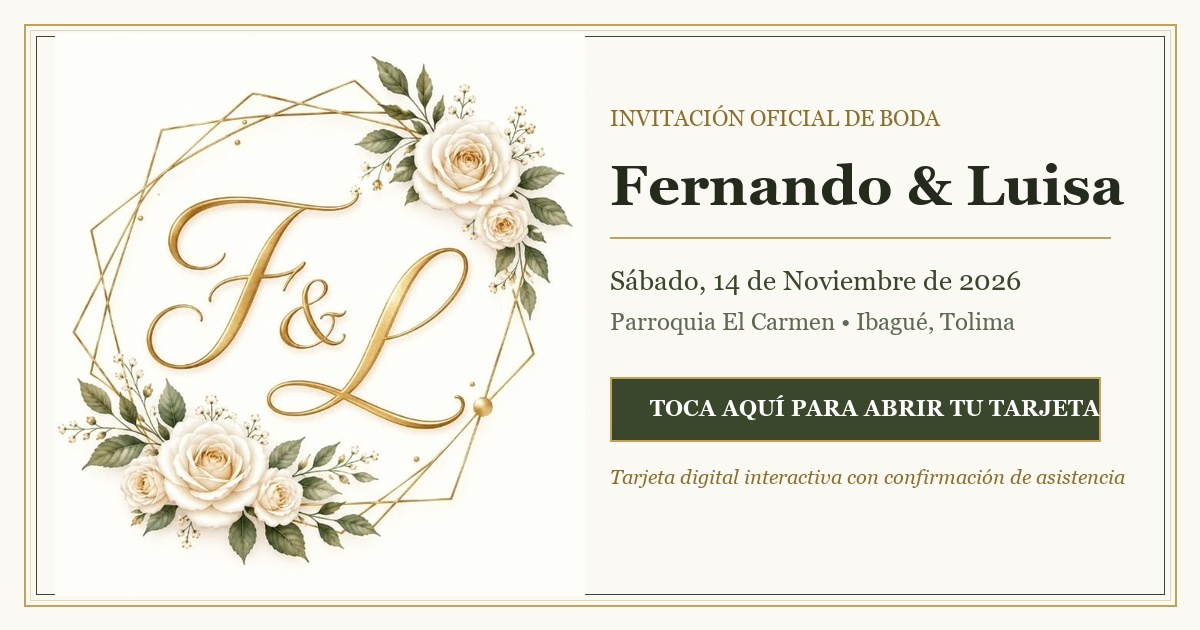
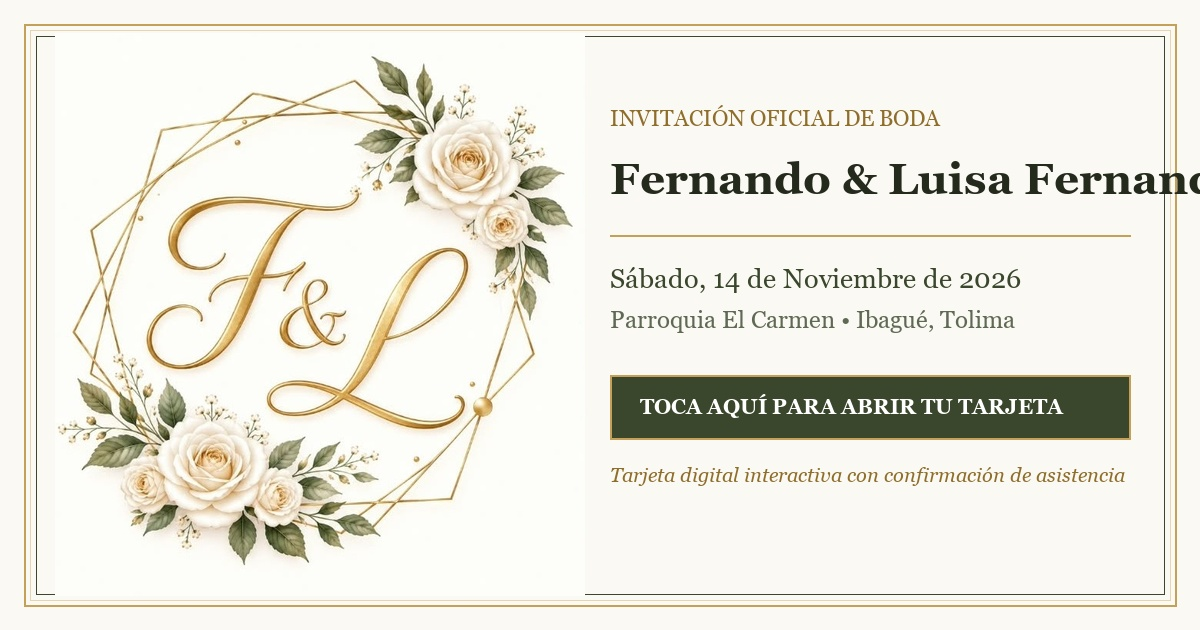
Luisa Fernanda en todo, itinerario solo con titulos grandes

diff --git a/index.html b/index.html
@@ -4,16 +4,16 @@
 <head>
   <meta charset="UTF-8">
   <meta name="viewport" content="width=device-width, initial-scale=1.0, maximum-scale=1.0, user-scalable=no">
-  <title>Boda Fernando & Luisa 🌿💍</title>
+  <title>Boda Fernando & Luisa Fernanda 🌿💍</title>
 
   <!-- SEO & OpenGraph WhatsApp / Facebook / Twitter -->
   <meta name="description"
-    content="Invitación Oficial de Boda • Fernando & Luisa. Acompáñanos a celebrar nuestro matrimonio el Sábado, 14 de Noviembre de 2026 en Ibagué, Tolima.">
+    content="Invitación Oficial de Boda • Fernando & Luisa Fernanda. Acompáñanos a celebrar nuestro matrimonio el Sábado, 14 de Noviembre de 2026 en Ibagué, Tolima.">
 
   <!-- Open Graph / Previsualización Grande en WhatsApp -->
   <meta property="og:type" content="website">
   <meta property="og:url" content="https://boda-fernando-luisa.vercel.app/">
-  <meta property="og:title" content="💌 Invitación Oficial de Boda • Fernando & Luisa 💍">
+  <meta property="og:title" content="💌 Invitación Oficial de Boda • Fernando & Luisa Fernanda 💍">
   <meta property="og:description"
     content="Estás cordialmente invitado(a) a celebrar el día más importante de nuestras vidas. Toca aquí para abrir tu tarjeta interactiva y confirmar tu pase.">
   <meta property="og:image" content="https://boda-fernando-luisa.vercel.app/assets/og_preview.jpg">
@@ -21,12 +21,12 @@
   <meta property="og:image:type" content="image/jpeg">
   <meta property="og:image:width" content="1200">
   <meta property="og:image:height" content="630">
-  <meta property="og:image:alt" content="Invitación Oficial de Boda Fernando y Luisa">
-  <meta property="og:site_name" content="Boda Fernando & Luisa">
+  <meta property="og:image:alt" content="Invitación Oficial de Boda Fernando y Luisa Fernanda">
+  <meta property="og:site_name" content="Boda Fernando & Luisa Fernanda">
 
   <!-- Twitter Card -->
   <meta name="twitter:card" content="summary_large_image">
-  <meta name="twitter:title" content="💌 Invitación Oficial de Boda • Fernando & Luisa 💍">
+  <meta name="twitter:title" content="💌 Invitación Oficial de Boda • Fernando & Luisa Fernanda 💍">
   <meta name="twitter:description"
     content="Estás cordialmente invitado(a) a celebrar el día más importante de nuestras vidas. Toca para abrir tu invitación.">
   <meta name="twitter:image" content="https://boda-fernando-luisa.vercel.app/assets/og_preview.jpg">
@@ -74,7 +74,7 @@
         <!-- Rótulo Caligráfico con el nombre del invitado -->
         <div class="envelope-label" id="envelopeLabel">
           <div class="envelope-label-intro" id="envGuestIntro">Estás Cordialmente Invitado/a</div>
-          <div class="envelope-label-name" id="envGuestName">Boda Fernando & Luisa</div>
+          <div class="envelope-label-name" id="envGuestName">Boda Fernando & Luisa Fernanda</div>
           <div class="envelope-label-passes" id="envGuestPasses">Sábado, 14 de Noviembre de 2026 • Ibagué, Tolima</div>
 
           <!-- HUELLITAS DE NUESTRO PERRIJO EN LA PORTADA 🐾 -->
@@ -118,7 +118,7 @@
           <h1 class="couple-names">
             <span id="displayGroom">Fernando</span>
             <span class="ampersand">&</span>
-            <span id="displayBride">Luisa</span>
+            <span id="displayBride">Luisa Fernanda</span>
           </h1>
           <p class="romantic-quote" id="displayQuote">
             “Me encontré con el amor de mi vida; lo agarré y no lo solté”
@@ -275,37 +275,30 @@
             <div class="timeline-item">
               <div class="timeline-dot"></div>
               <div class="timeline-title">Ceremonia Religiosa • 5:30 PM</div>
-              <div class="timeline-desc">Bendición sagrada de nuestro matrimonio en la Parroquia Nuestra Señora Del Carmen</div>
             </div>
             <div class="timeline-item">
               <div class="timeline-dot"></div>
               <div class="timeline-title">Recepción & Bienvenida • 7:00 PM</div>
-              <div class="timeline-desc">Llegada de nuestros seres queridos al Centro Vacacional Picaleña y cóctel de bienvenida</div>
             </div>
             <div class="timeline-item">
               <div class="timeline-dot"></div>
               <div class="timeline-title">Vals de los Esposos</div>
-              <div class="timeline-desc">Nuestro primer y emotivo baile como marido y mujer, acompañados de nuestros seres más queridos</div>
             </div>
             <div class="timeline-item">
               <div class="timeline-dot"></div>
               <div class="timeline-title">Sesión Fotográfica</div>
-              <div class="timeline-desc">Inmortalizando sonrisas, abrazos y recuerdos eternos junto a nuestra familia y amigos</div>
             </div>
             <div class="timeline-item">
               <div class="timeline-dot"></div>
               <div class="timeline-title">Cena de Celebración</div>
-              <div class="timeline-desc">Banquete de gala y brindis de honor para bendecir esta hermosa unión</div>
             </div>
             <div class="timeline-item">
               <div class="timeline-dot"></div>
               <div class="timeline-title">Música & Pista de Baile</div>
-              <div class="timeline-desc">¡Se abre la pista de fiesta! Alegría, baile continuo y máxima diversión para todos</div>
             </div>
             <div class="timeline-item">
               <div class="timeline-dot"></div>
               <div class="timeline-title">Corte del Pastel</div>
-              <div class="timeline-desc">El momento más dulce de la noche, compartiendo la dicha de nuestro amor</div>
             </div>
           </div>
         </section>
@@ -429,7 +422,7 @@
         <!-- 8. PIE DE TARJETA & DESPEDIDA -->
         <footer class="card-footer-farewell">
           <div class="farewell-text">¡Los esperamos con el corazón!</div>
-          <div class="farewell-subtext">Fernando & Luisa</div>
+          <div class="farewell-subtext">Fernando & Luisa Fernanda</div>
 
           <div style="margin-top: 20px; display: flex; gap: 10px; justify-content: center; flex-wrap: wrap;">
             <button class="btn-map btn-map-secondary" onclick="resetToEnvelope()" style="font-size: 0.75rem;">
@@ -481,7 +474,7 @@
       <div class="host-header">
         <div>
           <h2 class="host-title">Gestión de Invitados</h2>
-          <div class="host-subtitle">Boda Fernando & Luisa</div>
+          <div class="host-subtitle">Boda Fernando & Luisa Fernanda</div>
         </div>
         <button class="btn-close-drawer" id="btnCloseDrawer" aria-label="Cerrar panel">
           <svg width="24" height="24" viewBox="0 0 24 24" fill="none" stroke="currentColor" stroke-width="2">
@@ -535,7 +528,7 @@
             </div>
             <div class="form-group">
               <label class="form-label">Nombre de la Novia:</label>
-              <input type="text" class="form-input" id="editBrideName" value="Luisa">
+              <input type="text" class="form-input" id="editBrideName" value="Luisa Fernanda">
             </div>
             <div class="form-group">
               <label class="form-label">Monograma (Iniciales):</label>

diff --git a/novios.html b/novios.html
@@ -3,7 +3,7 @@
 <head>
   <meta charset="UTF-8">
   <meta name="viewport" content="width=device-width, initial-scale=1.0">
-  <title>Panel de Novios • Boda Fernando & Luisa 🌿</title>
+  <title>Panel de Novios • Boda Fernando & Luisa Fernanda 🌿</title>
   <link rel="icon" type="image/jpeg" href="assets/monograma_boda.jpg">
   
   <link rel="preconnect" href="https://fonts.googleapis.com">
@@ -694,7 +694,7 @@
       <div class="admin-logo-circle">F & L</div>
       <div>
         <h1>Panel Privado de Novios</h1>
-        <p>Boda Fernando & Luisa 🌿</p>
+        <p>Boda Fernando & Luisa Fernanda 🌿</p>
       </div>
     </div>
     <div class="nav-actions">
@@ -863,7 +863,7 @@
           </div>
           <div class="form-group">
             <label class="form-label">Nombre de la Novia:</label>
-            <input type="text" class="form-input" id="setBride" value="Luisa">
+            <input type="text" class="form-input" id="setBride" value="Luisa Fernanda">
           </div>
           <div class="form-group">
             <label class="form-label">Monograma (Iniciales):</label>
@@ -1075,7 +1075,7 @@
         const plural = g.passes > 1 ? 's' : '';
         const currentSt = guestStatuses[g.id] || 'pending';
 
-        const waMsg = `💌 *INVITACIÓN OFICIAL DE BODA* 💍\n\n¡Hola ${g.name}! Con inmensa alegría queremos invitarte a celebrar nuestro matrimonio. Esta invitación está reservada para *${g.passes} persona${plural}*.\n\nPuedes conocer todos los detalles de la ceremonia, recepción y confirmar tu asistencia en tu tarjeta interactiva aquí:\n${cardLink}\n\n⚠ *Por favor confirmar asistencia antes del 13 de Octubre para asegurar tu reserva.*\n\n¡Esperamos de todo corazón contar con tu compañía! 🤍\n— *Fernando & Luisa*`;
+        const waMsg = `💌 *INVITACIÓN OFICIAL DE BODA* 💍\n\n¡Hola ${g.name}! Con inmensa alegría queremos invitarte a celebrar nuestro matrimonio. Esta invitación está reservada para *${g.passes} persona${plural}*.\n\nPuedes conocer todos los detalles de la ceremonia, recepción y confirmar tu asistencia en tu tarjeta interactiva aquí:\n${cardLink}\n\n⚠ *Por favor confirmar asistencia antes del 13 de Octubre para asegurar tu reserva.*\n\n¡Esperamos de todo corazón contar con tu compañía! 🤍\n— *Fernando & Luisa Fernanda*`;
 
         const waUrl = intlPhone 
           ? `https://wa.me/${intlPhone}?text=${encodeURIComponent(waMsg)}`
@@ -1317,7 +1317,7 @@
       const cleanPhone = phone.replace(/\D/g, '');
       const intlPhone = cleanPhone ? (cleanPhone.startsWith('57') ? cleanPhone : `57${cleanPhone}`) : '';
       const plural = parseInt(passes, 10) > 1 ? 's' : '';
-      const waMsg = `💌 *INVITACIÓN OFICIAL DE BODA* 💍\n\n¡Hola ${name}! Con inmensa alegría queremos invitarte a celebrar nuestro matrimonio. Esta invitación está reservada para *${passes} persona${plural}*.\n\nPuedes conocer todos los detalles de la ceremonia, fiesta y confirmar tu asistencia en tu tarjeta interactiva aquí:\n${url}\n\n⚠ *Por favor confirmar asistencia antes del 13 de Octubre para asegurar tu reserva.*\n\n¡Esperamos contar con tu compañía! 🤍\n— *Fernando & Luisa*`;
+      const waMsg = `💌 *INVITACIÓN OFICIAL DE BODA* 💍\n\n¡Hola ${name}! Con inmensa alegría queremos invitarte a celebrar nuestro matrimonio. Esta invitación está reservada para *${passes} persona${plural}*.\n\nPuedes conocer todos los detalles de la ceremonia, fiesta y confirmar tu asistencia en tu tarjeta interactiva aquí:\n${url}\n\n⚠ *Por favor confirmar asistencia antes del 13 de Octubre para asegurar tu reserva.*\n\n¡Esperamos contar con tu compañía! 🤍\n— *Fernando & Luisa Fernanda*`;
 
       document.getElementById('newLinkWaBtn').href = intlPhone 
         ? `https://wa.me/${intlPhone}?text=${encodeURIComponent(waMsg)}`

diff --git a/app.js b/app.js
@@ -12,7 +12,7 @@ const AppState = {
   isMusicPlaying: false,
   weddingSettings: {
     groom: 'Fernando',
-    bride: 'Luisa',
+    bride: 'Luisa Fernanda',
     monogram: 'F & L',
     weddingDate: '2026-11-14T17:30',
     couplePhone: '573204545796',
@@ -165,14 +165,14 @@ function resolveActiveGuest() {
 
 // Aplicar vista en Modo General (sin invitado específico)
 function applyGeneralInvitationToUI() {
-  document.title = "Boda Fernando & Luisa 🌿";
+  document.title = "Boda Fernando & Luisa Fernanda 🌿";
 
   // 1. Rótulo del Sobre
   const envIntro = document.getElementById('envGuestIntro');
   const envName = document.getElementById('envGuestName');
   const envPasses = document.getElementById('envGuestPasses');
   if (envIntro) envIntro.textContent = "Estás Cordialmente Invitado/a";
-  if (envName) envName.textContent = "Boda Fernando & Luisa";
+  if (envName) envName.textContent = "Boda Fernando & Luisa Fernanda";
   if (envPasses) envPasses.textContent = "Sábado, 14 de Noviembre de 2026 • Ibagué, Tolima";
 
   // 2. Sección Principal de la Tarjeta
@@ -258,7 +258,7 @@ function applyGuestToUI(guest) {
   updateWhatsAppRSVPLink(guest);
 
   // Actualizar título de la página
-  document.title = `Invitación para ${guest.name} • Boda Fernando & Luisa 🌿`;
+  document.title = `Invitación para ${guest.name} • Boda Fernando & Luisa Fernanda 🌿`;
 }
 
 // Actualizar el enlace directo de confirmación por WhatsApp
@@ -870,7 +870,7 @@ function renderHostGuestList() {
     const s_plural = guest.passes > 1 ? 's' : '';
     
     // Mensaje personalizado de invitación para enviar al WhatsApp del invitado
-    const waInviteMessage = `💌 *INVITACIÓN OFICIAL DE BODA* 💍\n\n¡Hola ${guest.name}! Con inmensa alegría queremos invitarte a celebrar nuestro matrimonio. Esta invitación está reservada para *${guest.passes} persona${s_plural}*.\n\nPuedes conocer todos los detalles de la ceremonia, recepción y confirmar tu asistencia en tu tarjeta interactiva aquí:\n${cardLink}\n\n⚠ *Por favor confirmar antes del 13 de Octubre para asegurar tu reserva.*\n\n¡Esperamos contar con tu compañía en este día tan especial! 🤍\n— *Fernando & Luisa*`;
+    const waInviteMessage = `💌 *INVITACIÓN OFICIAL DE BODA* 💍\n\n¡Hola ${guest.name}! Con inmensa alegría queremos invitarte a celebrar nuestro matrimonio. Esta invitación está reservada para *${guest.passes} persona${s_plural}*.\n\nPuedes conocer todos los detalles de la ceremonia, recepción y confirmar tu asistencia en tu tarjeta interactiva aquí:\n${cardLink}\n\n⚠ *Por favor confirmar antes del 13 de Octubre para asegurar tu reserva.*\n\n¡Esperamos contar con tu compañía en este día tan especial! 🤍\n— *Fernando & Luisa Fernanda*`;
 
     const waHref = intlPhone 
       ? `https://wa.me/${intlPhone}?text=${encodeURIComponent(waInviteMessage)}`

diff --git a/style.css b/style.css
@@ -1185,7 +1185,7 @@ body {
 
 .timeline-item {
   position: relative;
-  margin-bottom: 18px;
+  margin-bottom: 26px;
   text-align: left;
 }
 
@@ -1196,7 +1196,7 @@ body {
 .timeline-dot {
   position: absolute;
   left: -28px;
-  top: 4px;
+  top: 8px;
   width: 14px;
   height: 14px;
   border-radius: 50%;
@@ -1221,10 +1221,10 @@ body {
 
 .timeline-title {
   font-family: var(--font-serif);
-  font-size: 1.12rem;
-  font-weight: 600;
+  font-size: 1.55rem;
+  font-weight: 700;
   color: var(--color-olive-dark);
-  line-height: 1.35;
+  line-height: 1.25;
 }
 
 .timeline-desc {

diff --git a/README.md b/README.md
@@ -1,4 +1,4 @@
-# 🌿 Tarjeta de Boda Digital de Lujo • Fernando & Luisa
+# 🌿 Tarjeta de Boda Digital de Lujo • Fernando & Luisa Fernanda
 
 Invitación digital interactiva y de alta costura, inspirada en papelería botánica en **Verde Oliva Sutil**, **Oro Champagne**, un **Sobre 3D con Sello de Lacre** y la canción oficial **"Antes que el tiempo se vaya" de Fonseca & Juanes**.
 
@@ -6,7 +6,7 @@ Invitación digital interactiva y de alta costura, inspirada en papelería botá
 
 ## 💍 Datos Oficiales de la Boda
 
-- **Novios:** Fernando & Luisa
+- **Novios:** Fernando & Luisa Fernanda
 - **Monograma:** F & L
 - **Fecha:** Sábado, 14 de Noviembre de 2026
 - **Ceremonia Religiosa:** Parroquia Nuestra Señora Del Carmen (Cra. 5 #18-55, Ibagué, Tolima) • **5:30 PM**
@@ -22,7 +22,7 @@ Invitación digital interactiva y de alta costura, inspirada en papelería botá
    - Ejemplo de enlace: `https://boda-fernando-luisa.vercel.app/?invitado=german-y-mary`
 
 2. **Panel Privado de Novios (`novios.html`):**
-   - Página exclusiva para Fernando y Luisa: `https://boda-fernando-luisa.vercel.app/novios.html`
+   - Página exclusiva para Fernando y Luisa Fernanda: `https://boda-fernando-luisa.vercel.app/novios.html`
    - Incluye el buscador de los **47 invitados** del Excel.
    - **Botón de 1 Clic para WhatsApp**: Abre WhatsApp directamente al celular del invitado con el mensaje de invitación listo y el enlace personalizado.
    - **Botón "Ver"**: Abre la tarjeta de ese invitado en una pestaña nueva.
